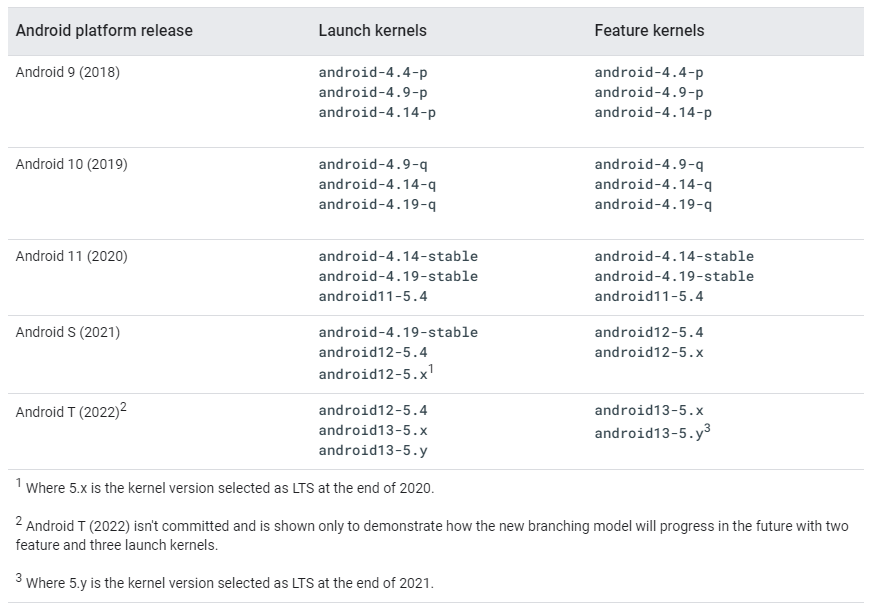
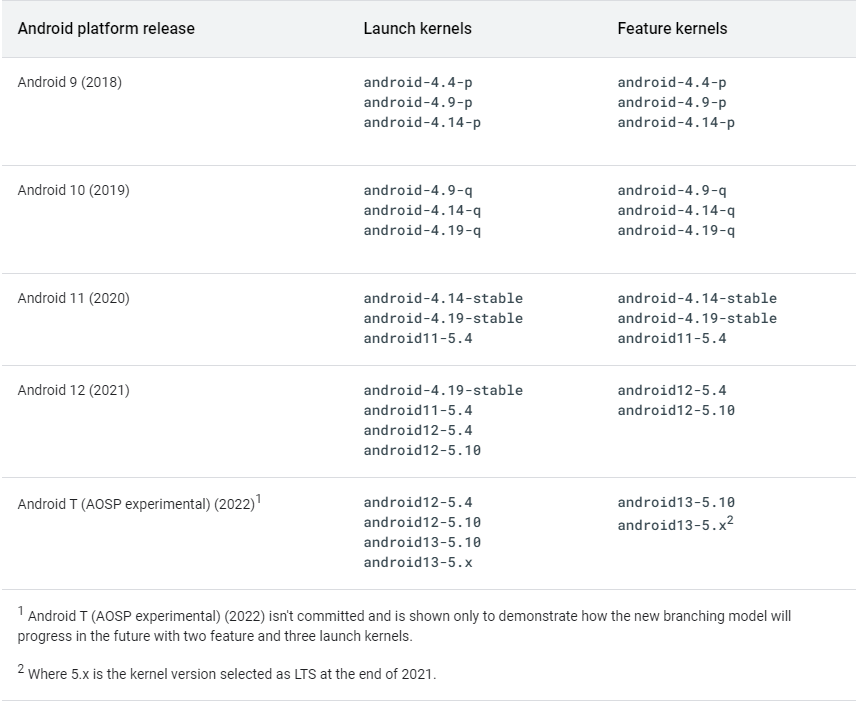
!10 continue update android kernel related knowledge * continue update android kernel related knowledge

diff --git a/articles/20200915-android-linux-version.md b/articles/20200915-android-linux-version.md
@@ -1,6 +1,7 @@
 ![](./diagrams/android.png)
 
 文章标题：**AOSP 内核的版本管理**
+
 <!-- TOC -->
 
 - [1. 参考](#1-参考)
@@ -11,6 +12,7 @@
     - [4.2. Android Platform 的内核版本管理](#42-android-platform-的内核版本管理)
         - [4.2.1. “Launch Kenel”](#421-launch-kenel)
         - [4.2.2. “Feature Kernel”](#422-feature-kernel)
+- [TBD](#tbd)
 
 <!-- /TOC -->
 
@@ -62,9 +64,9 @@
 
 图上左侧 Branches 列表的第一个 `android-mainline` 是 Android 的主要开发分支。每当 Linus Torvalds 发布 Linux 的主线版本以及候选版本时，其 Linux 主线代码就会被合并到 `android-mainline` 中。
 
-在 2019 年之前，**AOSP common kernels** 的构建方法是追踪最新的 LTS 内核版本，然后基于该最新的 LTS 版本添加特定于 Android 的补丁。但 2019 年开始 Google 修改了该流程，目前的做法是基于 `android-mainline` 分支派生出新的基于某个 Linux LTS 系列的 **AOSP common kernels** 分支。这么做的好处是，由于 `android-mainline` 始终保持了对 Linux 的 mainline 版本的追踪，这个分支总是保持了最新的 Linux 内核代码加上 Android 的特有补丁，再加上持续的每日构建和测试，避免了以前构建方式下执行 “前向移植（forward port）” 带来的压力，这里所谓的 “前向移植” 指的是由于 Linux LTS 升版，ACKs 也要随之升级并将原先在旧的 ACKs 上的补丁移植到新的 ACKs 上的工作，由于补丁数较多，不仅修改工作量大，测试的压力也会变大。而新的流程减轻了这些压力，保证了内核的高质量。
+在 2019 年之前，**AOSP common kernels** 的构建方法是追踪最新的 LTS 内核版本，每次一个 Linux LTS 版本发布后， Google 就基于该最新的 LTS 版本添加特定于 Android 的补丁。但这么做的一个问题是 Linux LTS 版本发布的周期比较长（大概一年发布一次），由于跨度较大，每次基于 LTS 版本进行移植和添加 Android 的补丁冲突可能会比较大，容易引入混乱。所以从 2019 年开始 Google 修改了该流程，目前的做法是 `android-mainline` 持续保持对 Linux 的 mainline 版本的追踪，每次有正式发布，或者 RC 发布都同步升级这个 `android-mainline` 分支，基本思想就是将原来的一年一次升级分散到多个小步辐升级过程，再加上持续的每日构建和测试，避免了以前构建方式下执行 “前向移植（forward port）” 带来的压力。新的流程减轻了这些压力，保证了内核的高质量。当然代价是需要小心地维护 `android-mainline`，将维护的工作量分散到平时的工作中。
 
-现在的流程是：当 Linux 宣布某个 mainline 版本成为一个新的 LTS 版本时，Google 将相对应地以 `android-mainline` 分支为基础拉一个 **AOSP common kernel** 分支。因为 Google 和它的合作伙伴一直在积极维护这个 `android-mainline` 分支，所以在其基础上拉出来的分支代码都不会有太大的质量问题，这种迁移是无缝的，当然代价是需要小心地维护 `android-mainline`，将维护的工作量分散到平时的工作中。
+在以上持续更新 `android-mainline` 的基础上，当 Linux 宣布某个 mainline 版本成为一个新的 LTS 版本时，Google 将相对应地从 `android-mainline` 上拉一个新的对应该 LTS 的 **AOSP common kernel** 分支。因为 Google 和它的合作伙伴一直在积极维护这个 `android-mainline` 分支，所以在其基础上拉出来的分支代码都不会有太大的质量问题，这种迁移是无缝的。
 
 此外，一旦某个 LTS 版本有小版本升级，我们仍然需要积极地将其修改合入对应的 **AOSP common kernels** 版本。例如，我们已经基于 Linux 的 `4.19` 建立了 **AOSP common kernels** 分支版本 `android-4.19-q`，当 Linux 对 `4.19.x` 进行更新，升级到 `4.19.y` 时，我们需要将对应的修改也相应合并到 `android-4.19-q` 中，从而保持 `android-4.19-q` 这个 **AOSP common kernel** 分支与最新的 `4.19.y` LTS Linux 内核版本同步同时又包含了特定于 Android 的补丁修改。
 
@@ -88,8 +90,19 @@
 
 这张表格的第二列叫 **“Launch Kenel”**。具体是什么意思呢，原来 Google 规定，每个 Android Platform 固定支持三个 **AOSP 内核** 版本用于发布（launching）新设备，这些 **AOSP 内核** 版本称之为 “Launch Kernel”。譬如，表格中 Android 11 支持的三个 **Launch Kernels** 版本分别是 `android-4.14-stable`、`android-4.19-stable` 和 `android11-5.4`。这些版本实际上就是上文我们介绍的从 `android-mainline` 分支上拉出来的对应各个 Linux LTS 版本的稳定分支。也就是说针对每个 Platform 发布，只支持最近的三个 Linux 内核 LTS 版本的稳定分支，而且这三个版本可以认为是每个 Platform 版本支持的 “老”、“中”、“青” 三代，还是以 Android 11 为例，其支持的 “老” 一代版本是 `android-4.14-stable`，恰好对应 Android 10 支持的 “中” 一代版本 `android-4.14-q`，以此类推。由于目前 Linux 的 LTS 分支差不多一年发布一个，而 Android 的 Platform 也是一年升级一个版本，所以对应每个 Android 的 Platform 版本支持的 LTS 内核版本也会吐故纳新，去掉一个最老的，加入一个新的，如此循环往复。Google 这么设计的考虑也是为了设备的兼容性和升级。假设有一款手机 Foo 采用 Android 10 platform，内核采用 `android-4.14-q`。当 Android 升级到 11 后，由于 Android 11 所支持的 “Launch Kernel” 中是宣称支持 `android-4.14-stable` 的，所以 Google 的兼容性测试会保证该手机即使不升级内核（更重要的是这也意味着不需要升级 Vendor/OEM 的驱动等），只升级 Platform 版本到 11 也是可以运行的，当然 11 中那些需要新内核补丁才可以工作的特性将无法工作，前提是该款手机不需要这些特定的新特性。
 
-另外针对 **“Launch Kernel”**，我们会看到从 Android 11 开始，**“Launch Kernels”** 的命名发生了变化，其支持的三款 **“Launch Kernels”** 分别叫做 `android-4.14-stable`、`android-4.19-stable` 和 `android11-5.4`，其命名习惯发生了修改。原因是形如 `android-4.4-p` 这样的命名遵循的是 Codename 的缩写命名形式，其末尾的 `p` 其实就是 Pie 的首字母，所以这种命名方式也称为 “甜品（dessert）” 内核版本号。但考虑到从 10 开始对外 Google 不再使用甜品的绰号，所以先是采用 “stable” 代替了末尾的字母，而且很快就引入了形如 `android11-5.4` 这样的新规则。这种新的版本规则 Google 称之为 KMI kernel 分支。这和 Google 的新发明有关。所谓 KMI 全称叫 Kernel Module Interface，它指的是 Linux 内核中提供给 “模块（Module）” 的编程接口 API。譬如 Vendor/OEM 会根据自己设备的特色为设备编写很多外设驱动模块，这些模块很可能并没有进入内核主线，或者在构建时和内核是独立编译安装的，那么维持模块和内核之间 API 的一致性就变得非常重要。如果 KMI 不一致很可能会导致系统升级时发生兼容性问题。为了解决 Android 版本的碎片化问题，Google 提出 GKI（Generic Kernel Image）计划，这个具体可以参考 Andorid 官网有关 GKI 的说明：<https://source.android.google.cn/devices/architecture/kernel/generic-kernel-image>。简而言之就是通过统一内核的公共部分，并为内核模块提供稳定的内核模块接口（KMI），从而达到可以独立更新模块和内核的目的。与之对应的新的内核命令规则就叫 “KMI 内核”，具体形式为 `<androidRelease>-<kernel version>`，通过结合 Linux 内核版本号和 Android 的 Platform Version 号来唯一决定。譬如表格中的 `android11-5.4` 表达的意思就是基于 Linux 5.4 LTS 版本，并且是支持 Android Platform 11 及以上版本。
+另外针对 **“Launch Kernel”**，我们会看到从 Android 11 开始，**“Launch Kernels”** 的命名发生了变化，其支持的三款 **“Launch Kernels”** 分别叫做 `android-4.14-stable`、`android-4.19-stable` 和 `android11-5.4`，其命名习惯发生了修改。
+
+首先我们发现形如 `android-4.14-p` 这样的分支名称被替换为`android-4.14-stable`。`android-4.14-p` 这样的命名遵循的是 Codename 的缩写命名形式，其末尾的 `p` 其实就是 Pie 的首字母，所以这种命名方式也称为 “甜品（dessert）” 内核版本号。但考虑到从 10 开始对外 Google 不再使用甜品的绰号，所以先是采用 “stable” 代替了末尾的字母。
+
+其次我们还看到形如 `android11-5.4` 这样的新规则。这种新的版本规则 Google 称之为 KMI kernel 分支。这和 Google 的新发明有关。所谓 KMI 全称叫 “Kernel Module Interface”，指的是 Linux 内核中提供给 “模块（Module）” 的编程接口 API。譬如 Vendor/OEM 会根据自己设备的特色为设备编写很多外设驱动模块，这些模块很可能并没有进入内核主线，或者在构建时和内核是独立编译安装的，那么维持模块和内核之间 API 的一致性就变得非常重要。如果 KMI 不一致很可能会导致系统升级时发生兼容性问题。为了解决 Android 版本的碎片化问题，从 Android 11 开始，Google 提出 **GKI（Generic Kernel Image）** 计划，这个具体可以参考 Andorid 官网有关 GKI 的说明：<https://source.android.google.cn/devices/architecture/kernel/generic-kernel-image>。简而言之就是通过统一内核的公共部分，并为内核模块提供稳定的内核模块接口（KMI），从而达到可以独立更新模块和内核的目的。与之对应的新的内核命令规则就叫 “KMI 内核”，具体形式为 `<androidRelease>-<kernel version>`，通过结合 Linux 内核版本号和 Android 的 Platform Version 号来唯一决定。譬如表格中的 `android11-5.4` 表达的意思就是基于 Linux 5.4 LTS 版本，并且是支持 Android Platform 11 及以上版本。
 
 ### 4.2.2. “Feature Kernel”
 
 表格的第二列叫 **“Feature Kernel”**。我们知道，有时候为了支持 Android 的某个 Platform 的新的 “特性（Feature）”，可能会涉及到需要修改 Linux 内核（当然这种情况是比较少的，但也不能排除），那么添加了这些补丁的 AOSP 内核自然就叫 **“Feature Kernel”** 了。在 Android 11 之前我们看到基本上每个 “Launch Kernel” 都打上了 Platform 相关的补丁，所以针对每个 Platform 版本，三个 “Launch Kernel” 本身就是 “Feature Kernel”。这样的好处是延长了老设备的维护周期。还是以上面的 Foo 设备举例，其发布时采用内核版本 `android-4.14-q`，假设 Android Platform 从 10 升级到 11 后新增支持了一个特性 A，而且 A 这个特性是需要内核新增支持的，那么如果 Foo 这款手机也希望使用特性 A，那么它还是有内核可用的，当然除了升级内核到 `android-4.14-stable`，Platfrom 自然也需要升级到 11。但从 Google 的角度来看，Foo 生命周期的延长导致 4.14 内核系列的维护生命周期也变长了，这增加了碎片化的风险。所以从 Android 12（S）开始，为了控制和限制需要支持的稳定的 KMI 的个数，避免碎片化，Google 计划缩减每个 Platform 对应支持的 **“Feature Kernel”** 个数，从三个减为两个。从表格上来看，以 Android S 即 Platform version 为 12 的那行为例，“Feature Kernel” 不再支持 `android-4.19-stable`，后果就是如果 12 中引入了一个新特性 B，而且该特性需要内核补丁支持的话，已经发货的手机如果采用的是 `android-4.19-stable` 及以前的内核，那么必须强制升级内核到 `android12-5.4`，这也意味着 Vendor/OEM 维护的驱动等也需要相应适配到更新的 Linux 内核 5.4。
+
+
+# TBD
+补充 内核生命周期部分，
+https://source.android.com/devices/architecture/kernel/android-common
+
+> When entering the frozen phase, the branch is git-tagged with the KMI version string containing the KMI generation number. For example, when android11-5.4 was frozen, it was tagged with the KMI version string 5.4-android11-0 where the trailing 0 is the KMI generation number.
